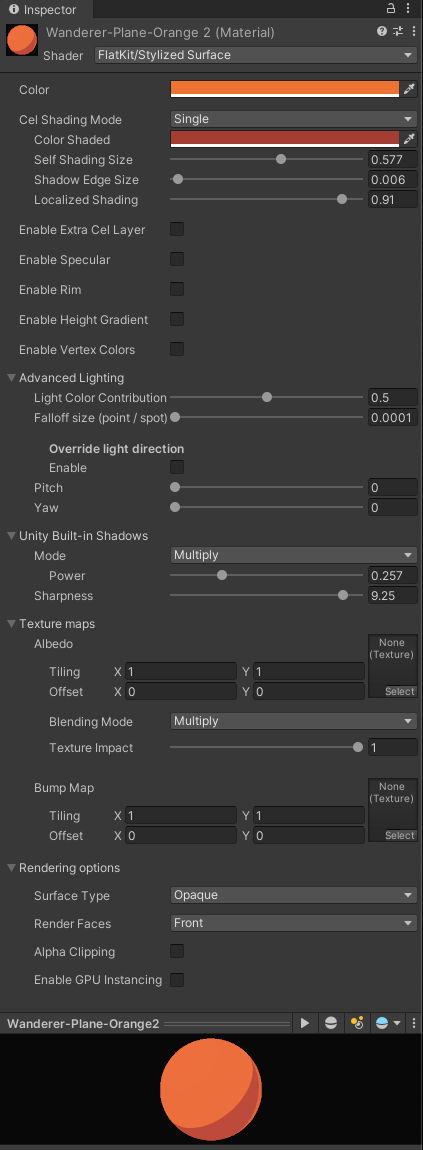
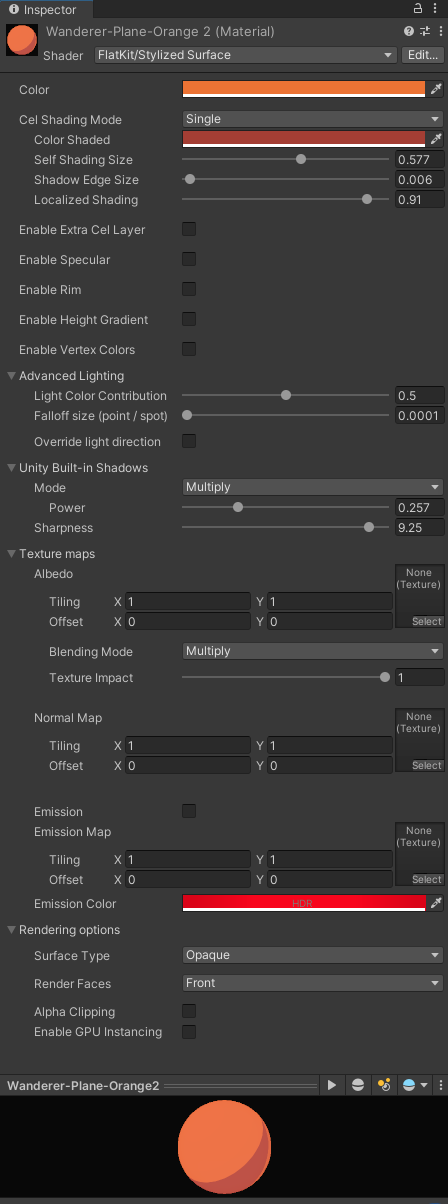
Shaders interface screenshots, added description about Emission maps

diff --git a/index.md b/index.md
@@ -43,6 +43,9 @@ _Windows: (replace accountName with your actual account name)_ C:\Users\accountN
 #### Q. Does Flat Kit support normal maps?  
 > **A.** Yes, it does. It is in Bump map section of the interface.
 
+#### Q. Does Flat Kit support emmission maps?  
+> **A.** Yes, it does.
+
 #### Q. Can I use the scenes from Flat Kit in a commercial project?  
 > **A.** Yes, you can. As soon as you purchase it, you can use anything from Flat Kit in the a commercial projects without a need to credit authors of the asset (us). What you can’t do is to re-sell, give away or place on public repositories any part of the asset uncompiled, i.e. publicly accessible source code or models. More info here — https://unity3d.com/legal/as_terms
 
@@ -218,7 +221,7 @@ In order to get Steps and Curve modes to work — as soon as you have a number o
 
 You can think of Rim as some kind of inner shadow and/or as inner glow. In one of the _Fruit Vase_ demo scenes, there is an example of extensive use of Rim as an outline. On _Blueprint Grid_ demo scene _Rim_ is used as a smooth inner glow. This parameter can be used creatively, for example, to substitute _Curve mode_ or _Extra Cel parameter_. **Just reminding you that the name like 'Rim', 'Specular' etc should not be perceived literally, most of them have many use cases.** In the screenshot below, with the help of Suzanne the Blender Monkey, we tried to show a few instances of _Stylized Surface_ shader with _None_ mode selected (meaning no straightforward shadows are applied), using orange color, and only _Rim_ parameter enabled. The results are variations of Rim section only. As you see, the _Rim_ alone is quite a creative tool. Imagine adding some creative _Specular_ and _Height Gradient_...
 
-![Rim only, usage axamples](FlatKit_Manual_Images/rim_examples_suzanne.png)
+![Rim only, usage examples](FlatKit_Manual_Images/rim_examples_suzanne.png)
 > Variety of uses of _Rim_ parameter alone on Suzanne the Blender Monkey. Interface of _Stylized Surface_ shader with _‘None’_ cel shading mode
 
 Although _Rim_ option is creatively useful, there are two more obvious ways to add an outline using Flat Kit: to use _‘Stylized Surface with Outline’_ shader and/or to use _‘Outline Image Effect’_ camera component/renderer feature. We’ll talk about both of them later in this manual.
@@ -282,7 +285,7 @@ If you use a Particle System and choose your particles to emit light, Flat Kit s
 ![Particles emitting light on Flat Kit shaders](FlatKit_Manual_Images/lighting_particles_lights.png)
 > Particles emitting light on Flat Kit shaders.
 
-**Advanced Lighting (Override light direction).** It is a way to make the material have an independent direction of the light from the Directional Light. This can be useful in cases when you need to align the position of the cels or Rim or Specular. Normally, to adjust these parameters globally, you should rotate the Directional light. Once _Override light direction_ parameter is enabled, the material no longer obeys the Directional Light, it now has independent mapping vectors for the light-dependent parameters (e.g. mentioned earlier cels, Rim, Specular) that you can ajust with _Pitch_ and _Yaw_ parameters. Simply put, you can rotate the the cels, Rim and Specular.  
+**Advanced Lighting (Override light direction).** It is a way to make the material have an independent direction of the light from the Directional Light. This can be useful in cases when you need to align the position of the cels or Rim or Specular. Normally, to adjust these parameters globally, you should rotate the Directional light. Once _Override light direction_ parameter is enabled, the material no longer obeys the Directional Light, it now has independent mapping vectors for the light-dependent parameters (e.g. mentioned earlier cels, Rim, Specular) that you can adjust with _Pitch_ and _Yaw_ parameters. Simply put, you can rotate the the cels, Rim and Specular.  
 
 **Unity Built-in Shadows.** If the object has the ‘Receive Shadows’ option turned on in Mesh Renderer, you have an ability to use Unity-processed shadows on it, as you would do in Unity Standard Material shader, with a few extra-options.
 
@@ -298,23 +301,40 @@ First, you have to select what mode to work with.
 ![Height Gradient in Color mode. Inspector interface](FlatKit_Manual_Images/unity_built_in_shadows_mode_color_parameters.png)
 > _Height Gradient_ in _Color_ mode. Inspector interface
 
-**Texture.** If you’ve got a UV-unwrapped mesh, you can add a diffuse texture to it. If you work with transparency in textures in Built-In RP, please use _Stylized Shader Cutout_ shader. It can see alpha on the texture as transparency. URP supports alpha by default.
+**Texture Maps** If you’ve got a UV-unwrapped mesh, you can add a diffuse texture to it. If you work with transparency in textures in Built-In RP, please use _Stylized Shader Cutout_ shader. It can see alpha on the texture as transparency. URP supports alpha by default.
 
-- _Texture selection slot_ lets you pick a texture;
-- _Tiling_ repeats the texture along X and Y axis;
-- _Blending Mode_ lets you choose between 'Multiply' or 'Add' blending modes.
-- _Texture Impact_ parameter controls how visible the texture is. Values to the left decrease visibility of the texture up until it is invisible.
+**Albedo** Allows to use the albedo, or diffuse texture. In URP this slot supports transparent textures by default. Can be used together with _Alpha Clipping_ parameter (explained below).
 
-**Bump Map.** To make an impression of a low-poly mesh having many details, you can use normal maps. Add one to _Bump Map_ slot in the Inspector panel.
+- _Texture selection slot_ lets you pick a texture;  
+- _Tiling_ repeats the texture along X and Y axis;  
+- _Offset_ shifts the texture along X and Y axis within the UV map of the mesh;  
+- _Blending Mode_ lets you choose between 'Multiply' or 'Add' blending modes.  
+- _Texture Impact_ parameter controls how visible the texture is. Values to the left decrease visibility of the texture up until it is invisible.  
+
+**Normal Map** To make an impression of a low-poly mesh having many details, you can use normal maps. Add one to _Bump Map_ slot in the Inspector panel.
 
 ![‘Stylized Surface’ shader — normal map applied](FlatKit_Manual_Images/normalmap-interface.png)
 > ‘Stylized Surface’ shader — normal map applied
 
-- _Texture selection slot_ lets you pick a texture;
-- _Tiling_ repeats the texture along X and Y axis.
+- _Texture selection slot_ lets you pick a texture;  
+- _Tiling_ repeats the texture along X and Y axis;  
+- _Offset_ shifts the texture along X and Y axis within the UV map of the mesh;  
 
 ![‘Normal Map Tree’ demo scene, a tree without and with a normal map](FlatKit_Manual_Images/normalmap-trees.png)
 > ‘Normal Map Tree’ demo scene, a tree without and with a normal map
+
+**Emission** Enables Emission map part of the shader.  
+
+**Emission Map** Allows to use custom emission maps to designate the parts of the meshes to have a 'glow' effect.  
+
+- _Texture selection slot_ lets you pick a texture;  
+- _Tiling_ repeats the texture along X and Y axis;  
+- _Offset_ shifts the texture along X and Y axis within the UV map of the mesh;  
+- _Emission Color_ chooses the color of the 'glowing' effect.  
+
+![Emission map part of the Stylized Surface interface](FlatKit_Manual_Images/stylized-surface-emission-interface.png)
+> Emission map part of the Stylized Surface interface  
+
 
 
 ## 3.2. ‘Stylized Surface Cutout’ Shader
@@ -349,7 +369,7 @@ Sometimes it is useful to manipulate the normals of your model in order to force
 More on this is covered in [Outline Image Effect](index.md#42-outline-image-effect) chapter. But here's one thing you can try without using 3d editor software. Among the other parameters of the import settings of the model, there is a section where is it possible to change the angle detection threshold for normals. It may come handy in adding or removing some of the outlines where they wouldn't appear normally. Also, slight adjustments to these parameters may resolve some of the visual issues. If you have gaps in the outline, for instance, try tweaking these controls (but remember to backup the project first, it's always a good idea to backup things. In fact, if you are working on something, do it now).
 
 ![Import settings of the model](FlatKit_Manual_Images/mesh-import-settings.png)
-> Import settings of the model has a section for manipulationg the normals, which is useful for the _Stylized Surface with Outline_ shader as well as for _Outline_ global effect.
+> Import settings of the model has a section for manipulating the normals, which is useful for the _Stylized Surface with Outline_ shader as well as for _Outline_ global effect.
 
 
 ## 3.4. ‘Gradient Skybox’ Shader
